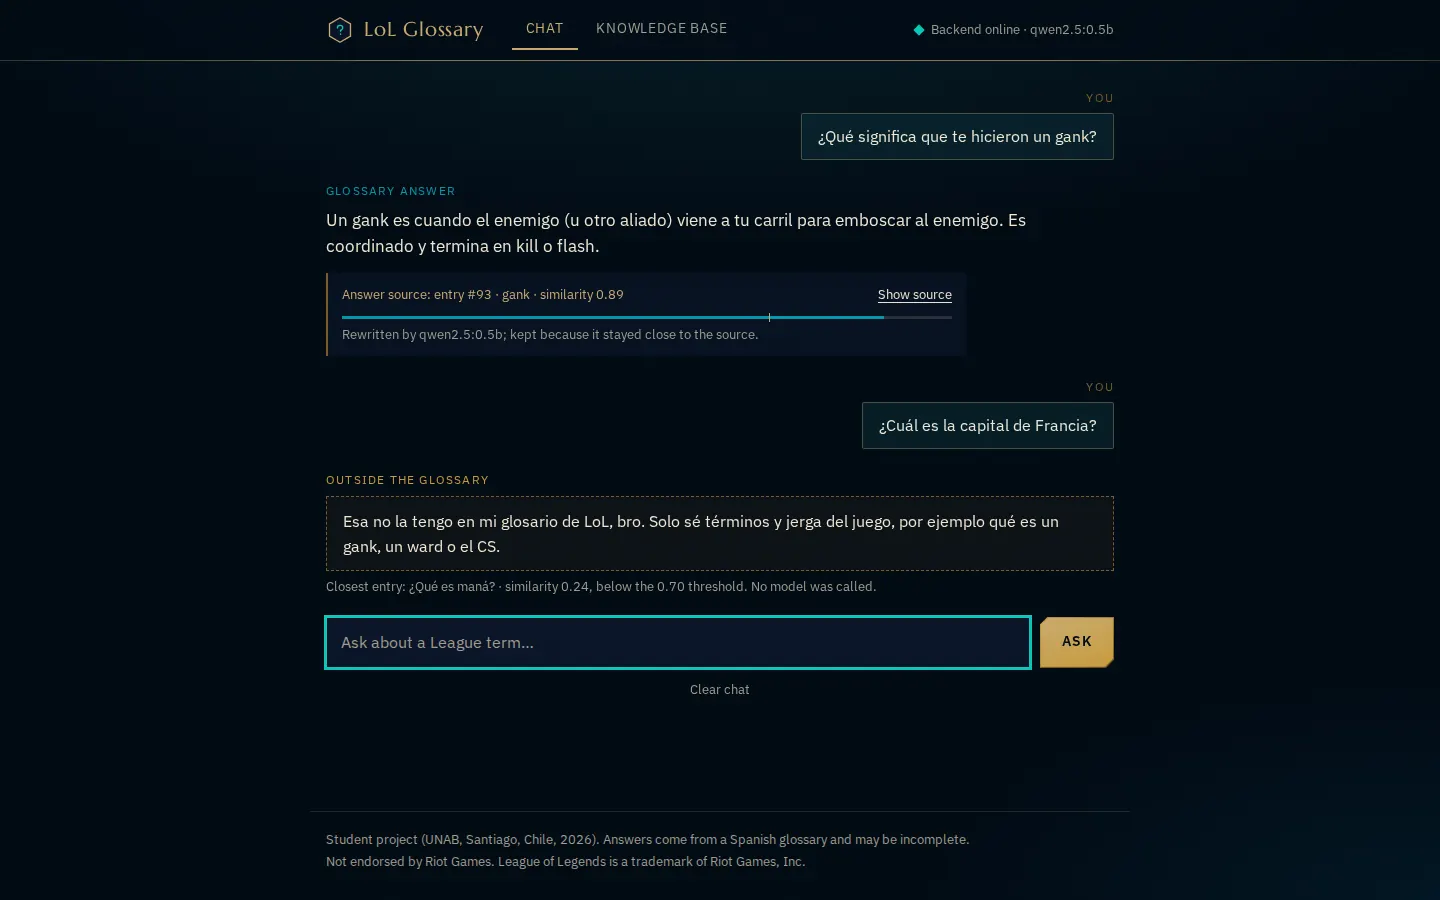
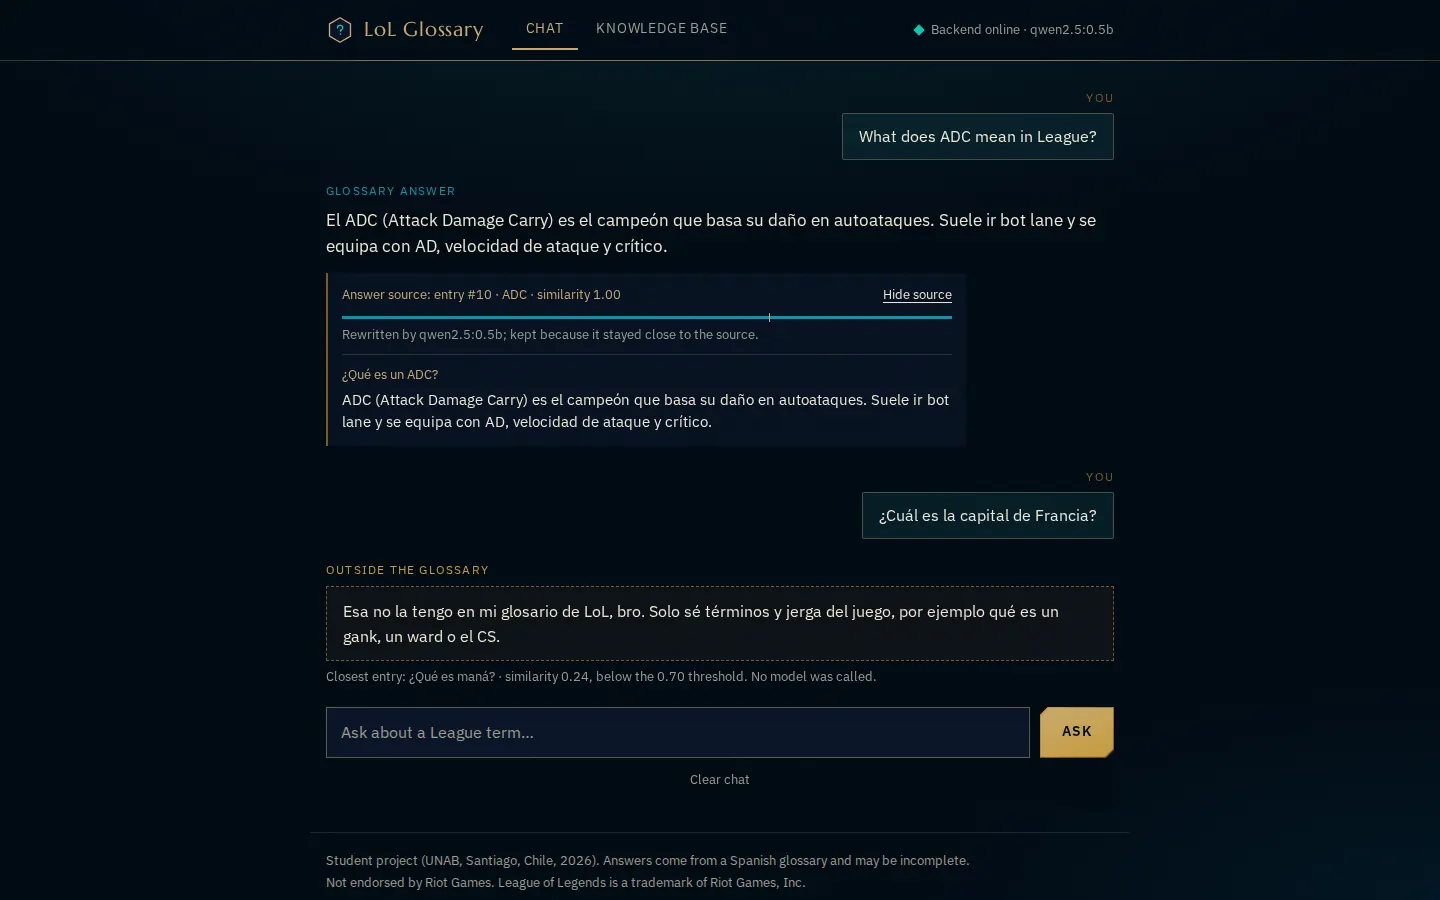
docs: retake screenshots with a faithful kept rewrite and a labelled verbatim answer

diff --git a/eval/results.md b/eval/results.md
@@ -262,7 +262,7 @@ End to end with `qwen2.5:0.5b`:
 - The drift check rejects a rewrite that added numbers or names, left the source vocabulary (content-word overlap below 0.8), was too long or not in Spanish, and, since the fix, one that (1) no longer mentions a glossary concept the source uses (for every entry with a term or alias in the source answer, at least one name of that entry must remain, matched by stem), or (2) uses a content word of the source more often than the source does.
 - Why the fix: the showcase answer for entry #93 turned "cuando el junglero (u otro aliado) viene a tu carril a emboscar al enemigo" into "cuando el enemigo (u otro aliado) viene a tu carril para emboscar al enemigo", which changes who gets ambushed. The word "junglero" was not a glossary alias (now it is, an alias of jungler), and the substitution made "enemigo" appear twice, so both new rules catch it; tests use that exact example plus a faithful paraphrase that is kept.
 - A first, literal version required every individual term and alias of the source to survive. It kept 8 of 44 answers (dev 0/15, held-out 7/19, fresh 1/10), mostly verbatim copies, because rewrites legitimately drop alternative names of the same concept ("AFK" for "away from keyboard"). Grouping names by entry (rule 1 above) keeps the protection without that cost.
-- The drift check is still a filter, not a proof. Inspecting every kept, reworded rewrite of the final run by hand (7), two changed meaning and were not caught: "¿Qué hace la habilidad definitiva de un campeón?" gets "La habilidad definitiva de un campeón es 'Tira la ulti'." (the entry says the ult is the R and gives 'Tira la ulti' as an example phrase), and the uncovered question "¿Quién es el campeón más jugado de la historia?" (it passes the gate at 0.707 and matches the "main" entry) gets "El campeón más jugado ... es Yasuo, que se conoce como 'Soy main Yasuo'", turning an example from the entry into an answer. The other five are faithful (the Counter pick sentence is reordered, the blue-buff one adds "lo que es crucial", the rest differ by an article or a dropped headword). In an earlier run the Summoner entry (#203, retrieved for the Flash question) was rewritten as "necesitas un summoner (el jugador) y un campeón", also wrong. The KB answer shown in the source card is always the ground truth.
+- The drift check is still a filter, not a proof. Inspecting every kept, reworded rewrite of the final run by hand (7), two changed meaning and were not caught: "¿Qué hace la habilidad definitiva de un campeón?" gets "La habilidad definitiva de un campeón es 'Tira la ulti'." (the entry says the ult is the R and gives 'Tira la ulti' as an example phrase), and the uncovered question "¿Quién es el campeón más jugado de la historia?" (it passes the gate at 0.707 and matches the "main" entry) gets "El campeón más jugado ... es Yasuo, que se conoce como 'Soy main Yasuo'", turning an example from the entry into an answer. The other five are faithful (the Counter pick sentence is reordered, the blue-buff one adds "lo que es crucial", the rest differ by an article or a dropped headword). Two more slips were seen outside the table: in an earlier run the Summoner entry (#203, retrieved for the Flash question) was rewritten as "necesitas un summoner (el jugador) y un campeón", also wrong, and while taking the README screenshots a second run of the ADC question produced "Es un campeón que base su daño ... Se equipa con AD (Attack Damage Carry)", which garbles the grammar and mislabels AD as the ADC expansion (the first run of the same question was faithful). The KB answer shown in the source card is always the ground truth.
 - When an uncovered question passes the gate (for example "habilidad E de Ezreal") the chatbot answers with the entry it matched ("habilidad E") and labels it with that source; the answer is a correct glossary entry, not an answer to the question. The source card makes that visible.
 
 Caveats: 30, 30 and 22 questions are small samples, so percentages move by 3 to 10 points per question; the sets were written by the project owner and an assistant, not collected from real users; every question is single-turn (conversation history is not evaluated); the e2e table uses one run of a stochastic model.
